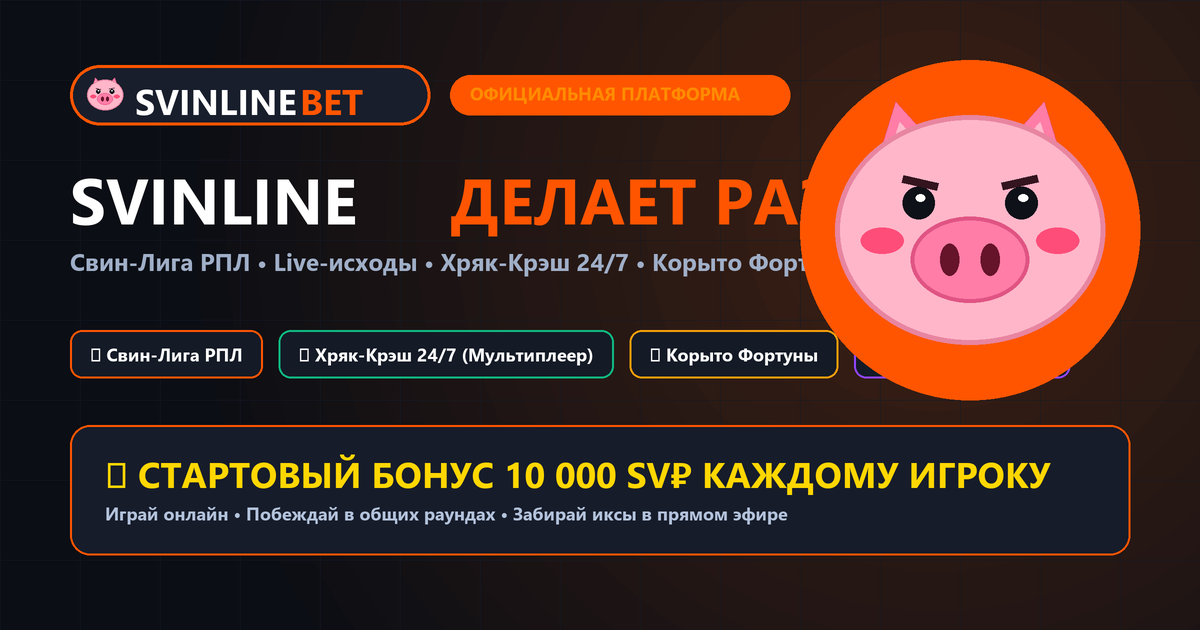
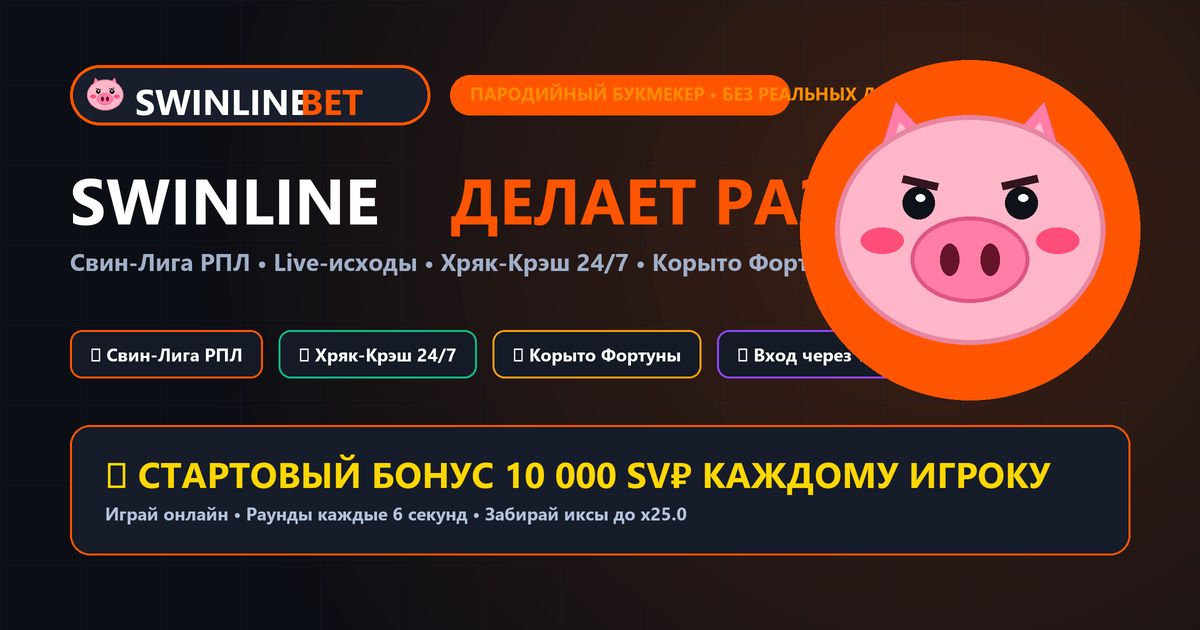
feat(brand): rename SVINLINE -> SWINLINE everywhere user-facing
- UI texts, logo, wheel hub, esports arena, admin panel, auth modal, footer
- meta/OG/Twitter titles + descriptions in index.html
- content: categories, promos, news, about (data.ts) and docs (README, info.md)
- regenerated og-image and favicons via generate_assets.py; og banner now says
  'ПАРОДИЙНЫЙ БУКМЕКЕР • БЕЗ РЕАЛЬНЫХ ДЕНЕГ' instead of 'ОФИЦИАЛЬНАЯ ПЛАТФОРМА'
  and drops the fake '(Мультиплеер)' badge
- repo name, site URL, localStorage keys and SV₽ currency intentionally unchanged

diff --git a/src/App.tsx b/src/App.tsx
@@ -85,7 +85,7 @@ function loadJSON<T>(key: string, fallback: T): T {
 const fmt = (n: number) => n.toLocaleString('ru-RU', { maximumFractionDigits: 2 }) + ' SV₽'
 
 const PigLogo = () => (
-  <svg width="28" height="28" viewBox="0 0 100 100" role="img" aria-label="Свин-маскот SVINLINE">
+  <svg width="28" height="28" viewBox="0 0 100 100" role="img" aria-label="Свин-маскот SWINLINE">
     <use href="#pig" />
   </svg>
 )
@@ -1102,7 +1102,7 @@ export default function App() {
       setNewMatchIsLive(true)
       setNewMatchScore('1 : 0')
       setNewMatchTime('Финал 30 сек')
-      setNewMatchDesc('Прямой эфир со столовой SVINLINE!')
+      setNewMatchDesc('Прямой эфир со столовой SWINLINE!')
     }
     notify('Шаблон применён! Можете отредактировать параметры или сразу опубликовать 🚀')
   }
@@ -1128,7 +1128,7 @@ export default function App() {
       score: newMatchScore.trim() || '0 : 0',
       isLive: newMatchIsLive,
       liveTime: newMatchIsLive ? (newMatchTime.trim() || '1-й тайм 1\'') : (newMatchTime.trim() || 'Скоро'),
-      desc: newMatchDesc.trim() || 'Матч добавлен администратором SVINLINE.',
+      desc: newMatchDesc.trim() || 'Матч добавлен администратором SWINLINE.',
       out: [
         ['П1', o1],
         ['Ничья X', ox],
@@ -1414,7 +1414,7 @@ export default function App() {
 
   return (
     <div style={{ minHeight: '100vh', display: 'flex', flexDirection: 'column' }}>
-      {/* 1. Header (Winline style with SVINLINE branding) */}
+      {/* 1. Header (Winline style with SWINLINE branding) */}
       <header className="wl-header">
         <div className="wl-header-inner">
           <div style={{ display: 'flex', alignItems: 'center', gap: 18 }}>
@@ -1422,7 +1422,7 @@ export default function App() {
             <div className="wl-logo-pill" onClick={() => { setView('line'); setSelectedSport(null) }}>
               <PigLogo />
               <div className="wl-logo-text">
-                SVIN<span>LINE</span>
+                SWIN<span>LINE</span>
               </div>
             </div>
 
@@ -2514,7 +2514,7 @@ export default function App() {
                     {/* Central Mascot Hub */}
                     <div className="wl-wheel-center-hub" onClick={!spinning ? spinRoulette : undefined} title="Крутить корыто">
                       <PigLogo />
-                      <span style={{ fontSize: 9, fontWeight: 800, color: '#f59e0b', marginTop: 2, letterSpacing: 0.5 }}>SVIN</span>
+                      <span style={{ fontSize: 9, fontWeight: 800, color: '#f59e0b', marginTop: 2, letterSpacing: 0.5 }}>SWIN</span>
                     </div>
                   </div>
 
@@ -2588,7 +2588,7 @@ export default function App() {
                       🐷🎮
                     </div>
                     <div style={{ fontFamily: 'var(--font-d)', fontWeight: 800, fontSize: 22, marginTop: 12 }}>
-                      SVIN-ESPORTS ARENA
+                      SWIN-ESPORTS ARENA
                     </div>
                     <div style={{ color: 'var(--tx-secondary)', fontSize: 13, marginTop: 4 }}>
                       {streamPlaying ? 'Прямой эфир турнира CS2 • Идёт разминка' : 'Трансляция на паузе'}
@@ -2846,7 +2846,7 @@ export default function App() {
           {view === 'about' && (
             <div style={{ maxWidth: 860, margin: '0 auto' }}>
               <h2 style={{ fontFamily: 'var(--font-d)', fontSize: 22, marginBottom: 16 }}>
-                О компании SVINLINE
+                О компании SWINLINE
               </h2>
 
               {/* CEO Showcase Card */}
@@ -2866,7 +2866,7 @@ export default function App() {
               >
                 <img
                   src={ceoPhoto}
-                  alt="Генеральный директор SVINLINE"
+                  alt="Генеральный директор SWINLINE"
                   style={{
                     width: 120,
                     height: 150,
@@ -2882,10 +2882,10 @@ export default function App() {
                     <ShieldCheck size={14} /> Руководство компании
                   </div>
                   <h3 style={{ fontSize: 22, fontWeight: 800, color: '#fff', marginBottom: 6, fontFamily: 'var(--font-d)' }}>
-                    Генеральный директор SVINLINE
+                    Генеральный директор SWINLINE
                   </h3>
                   <div style={{ fontSize: 14, color: 'var(--tx-secondary)', lineHeight: 1.6 }}>
-                    Основатель и генеральный директор букмекерской платформы SVINLINE. Лично курирует честность выплат, надёжность алгоритмов линии, организацию турниров и стратегическое развитие платформы нового поколения.
+                    Основатель и генеральный директор букмекерской платформы SWINLINE. Лично курирует честность выплат, надёжность алгоритмов линии, организацию турниров и стратегическое развитие платформы нового поколения.
                   </div>
                 </div>
               </div>
@@ -2904,7 +2904,7 @@ export default function App() {
               <div className="wl-banner-card highlight">
                 <h3 style={{ fontSize: 17, fontWeight: 700, marginBottom: 8 }}>Правила платформы</h3>
                 <p style={{ fontSize: 13, color: 'var(--tx-secondary)', lineHeight: 1.6 }}>
-                  SVINLINE — интерактивная игровая платформа. Внутренняя расчетная единица: SV₽. Стартовый баланс: {fmt(START)}, минимальная ставка: {MINBET} SV₽. Все игровые расчеты производятся в единицах SV₽.
+                  SWINLINE — интерактивная игровая платформа. Внутренняя расчетная единица: SV₽. Стартовый баланс: {fmt(START)}, минимальная ставка: {MINBET} SV₽. Все игровые расчеты производятся в единицах SV₽.
                 </p>
               </div>
             </div>
@@ -3243,7 +3243,7 @@ export default function App() {
               <div style={{ display: 'flex', alignItems: 'center', gap: 10 }}>
                 <ShieldCheck size={22} color="#f59e0b" />
                 <span style={{ fontWeight: 800, fontSize: 17, color: '#f59e0b' }}>
-                  ПАНЕЛЬ АДМИНИСТРАТОРА ЛИНИИ SVINLINE
+                  ПАНЕЛЬ АДМИНИСТРАТОРА ЛИНИИ SWINLINE
                 </span>
               </div>
               <button onClick={() => setAdminModalOpen(false)} style={{ color: 'var(--tx-muted)' }}>
@@ -3552,7 +3552,7 @@ export default function App() {
                     className="wl-btn-orange"
                     style={{ width: '100%', height: 46, fontSize: 15, borderRadius: 10, marginTop: 10 }}
                   >
-                    + Опубликовать событие в линию SVINLINE 🚀
+                    + Опубликовать событие в линию SWINLINE 🚀
                   </button>
                 </form>
               )}
@@ -3723,7 +3723,7 @@ export default function App() {
           <div className="wl-modal-card" style={{ maxWidth: 420, textAlign: 'center', padding: '24px 20px' }} onClick={e => e.stopPropagation()}>
             <div style={{ display: 'flex', justifyContent: 'space-between', alignItems: 'center', marginBottom: 16 }}>
               <span style={{ fontWeight: 800, fontSize: 18, color: '#fff' }}>
-                Вход в SVINLINE
+                Вход в SWINLINE
               </span>
               <button onClick={() => setAuthModalOpen(false)} style={{ color: 'var(--tx-muted)', background: 'none', border: 'none', cursor: 'pointer' }}>
                 <X size={20} />
@@ -4172,7 +4172,7 @@ export default function App() {
                   className="wl-btn-orange"
                   style={{ width: '100%', height: 46, fontSize: 15, borderRadius: 10, marginTop: 8 }}
                 >
-                  + Опубликовать событие в линию SVINLINE 🚀
+                  + Опубликовать событие в линию SWINLINE 🚀
                 </button>
               </form>
             </div>
@@ -4191,7 +4191,7 @@ export default function App() {
       {/* 8. Discreet Footer */}
       <footer className="wl-footer">
         <div>
-          © 2026 SVINLINE (СВИНЛАЙН). Все права защищены. Играйте ответственно. Внутренняя расчетная единица: SV₽. 18+
+          © 2026 SWINLINE (СВИНЛАЙН). Все права защищены. Играйте ответственно. Внутренняя расчетная единица: SV₽. 18+
         </div>
       </footer>
     </div>

diff --git a/src/data.ts b/src/data.ts
@@ -50,7 +50,7 @@ export const DEFAULT_ACCOUNTS: UserAccount[] = []
 export const CATS = [
   'Свинские соревнования',
   'Интернет и мемы',
-  'Жизнь SVINLINE',
+  'Жизнь SWINLINE',
   'Абсолютный абсурд',
   'Кибер-Хряк (Esports)',
   'Скоростное поедание',
@@ -63,7 +63,7 @@ export const SPORT_CATEGORIES = [
   { id: 5, name: 'Скоростное поедание', count: 0, icon: 'Utensils' },
   { id: 4, name: 'Кибер-Хряк (CS & Dota)', count: 0, icon: 'Gamepad2' },
   { id: 1, name: 'Интернет и мемы', count: 0, icon: 'Flame' },
-  { id: 2, name: 'Жизнь SVINLINE', count: 0, icon: 'Building' },
+  { id: 2, name: 'Жизнь SWINLINE', count: 0, icon: 'Building' },
   { id: 3, name: 'Абсолютный абсурд', count: 0, icon: 'Sparkles' },
   { id: 6, name: 'Хрюк-MMA', count: 0, icon: 'Swords' },
   { id: 7, name: 'Свинобол 24/7', count: 0, icon: 'Activity' }
@@ -84,7 +84,7 @@ export const TOURNAMENT_PILLS = [
 export const PROMOS = [
   [
     'СТАРТОВЫЙ БОНУС 10 000 SV₽',
-    'Эксклюзивный приветственный бонус SVINLINE. Моментально начисляется на баланс каждому новому участнику при регистрации.'
+    'Эксклюзивный приветственный бонус SWINLINE. Моментально начисляется на баланс каждому новому участнику при регистрации.'
   ],
   [
     'ХРЯК-КРЭШ 24/7',
@@ -106,7 +106,7 @@ export const NEWS = [
     'Совет директоров единогласно утвердил стратегию развития бренда и новые стандарты заботы о клиентах.'
   ],
   [
-    'SVINLINE открыла тренировочную базу для киберспорта',
+    'SWINLINE открыла тренировочную базу для киберспорта',
     'Игроки тренируются по 14 часов в день, готовясь к осеннему сезону ThunderPig World Championship.'
   ],
   [
@@ -117,11 +117,11 @@ export const NEWS = [
 
 export const ABOUT = [
   'История создания',
-  'SVINLINE — передовая цифровая платформа спортивных и киберспортивных событий. Мы создали премиальный сервис с высокими коэффициентами, глубокой аналитикой и уникальной линейкой турниров.',
+  'SWINLINE — передовая цифровая платформа спортивных и киберспортивных событий. Мы создали премиальный сервис с высокими коэффициентами, глубокой аналитикой и уникальной линейкой турниров.',
   'Наша философия',
   '100% эмоций, передовые технологии и бескомпромиссный спортивный драйв. Платформа нового поколения с мгновенным расчетом ставок в валюте SV₽.',
   'Руководство компании',
-  'Генеральный директор SVINLINE лично курирует стандарты надежности платформы, расчет линии и развитие турниров.'
+  'Генеральный директор SWINLINE лично курирует стандарты надежности платформы, расчет линии и развитие турниров.'
 ]
 
 export const START = 10000

diff --git a/index.html b/index.html
@@ -3,8 +3,8 @@
 <head>
 <meta charset="utf-8">
 <meta name="viewport" content="width=device-width, initial-scale=1, viewport-fit=cover">
-<title>SVINLINE: делает разницу</title>
-<meta name="description" content="SVINLINE — пародийный букмекер на виртуальные SV₽: Свин-Лига РПЛ, Хряк-Крэш, Корыто Фортуны и Плинко. Реальных денег нет.">
+<title>SWINLINE: делает разницу</title>
+<meta name="description" content="SWINLINE — пародийный букмекер на виртуальные SV₽: Свин-Лига РПЛ, Хряк-Крэш, Корыто Фортуны и Плинко. Реальных денег нет.">
 
 <!-- Favicons & App Icons -->
 <link rel="icon" type="image/svg+xml" href="./favicon.svg">
@@ -14,8 +14,8 @@
 
 <!-- Open Graph / Telegram / Discord / VK / WhatsApp Preview -->
 <meta property="og:type" content="website">
-<meta property="og:site_name" content="SVINLINE">
-<meta property="og:title" content="SVINLINE: делает разницу 🐷">
+<meta property="og:site_name" content="SWINLINE">
+<meta property="og:title" content="SWINLINE: делает разницу 🐷">
 <meta property="og:description" content="Пародийный букмекер на виртуальные SV₽: Свин-Лига РПЛ, Хряк-Крэш 24/7 и Корыто Фортуны. Заходи и забирай стартовые 10 000 SV₽! Реальных денег нет.">
 <meta property="og:url" content="https://egor4kill.github.io/svinline/">
 <meta property="og:image" content="https://egor4kill.github.io/svinline/og-image.png">
@@ -23,11 +23,11 @@
 <meta property="og:image:type" content="image/png">
 <meta property="og:image:width" content="1200">
 <meta property="og:image:height" content="630">
-<meta property="og:image:alt" content="SVINLINE: делает разницу">
+<meta property="og:image:alt" content="SWINLINE: делает разницу">
 
 <!-- Twitter / X Card -->
 <meta name="twitter:card" content="summary_large_image">
-<meta name="twitter:title" content="SVINLINE: делает разницу 🐷">
+<meta name="twitter:title" content="SWINLINE: делает разницу 🐷">
 <meta name="twitter:description" content="Пародийный букмекер на виртуальные SV₽: Свин-Лига РПЛ, Хряк-Крэш 24/7 и Корыто Фортуны. Заходи и забирай стартовые 10 000 SV₽! Реальных денег нет.">
 <meta name="twitter:image" content="https://egor4kill.github.io/svinline/og-image.png">
 

diff --git a/src/index.css b/src/index.css
@@ -91,7 +91,7 @@ button:focus-visible, input:focus-visible {
   gap: 16px;
 }
 
-/* Winline-styled SVINLINE Logo Pill */
+/* Winline-styled SWINLINE Logo Pill */
 .wl-logo-pill {
   display: flex;
   align-items: center;

diff --git a/scripts/generate_assets.py b/scripts/generate_assets.py
@@ -114,16 +114,16 @@ def create_og_banner():
     pill_y = 65 * scale
     draw.rounded_rectangle([pill_x, pill_y, pill_x + 360 * scale, pill_y + 60 * scale], radius=30 * scale, fill=(24, 30, 44), outline=(255, 85, 0), width=3 * scale)
     draw_pig(draw, pill_x + 35 * scale, pill_y + 30 * scale, 18 * scale)
-    draw.text((pill_x + 65 * scale, pill_y + 11 * scale), "SVINLINE", fill=(255, 255, 255), font=font_large)
+    draw.text((pill_x + 65 * scale, pill_y + 11 * scale), "SWINLINE", fill=(255, 255, 255), font=font_large)
     draw.text((pill_x + 230 * scale, pill_y + 11 * scale), "BET", fill=(255, 85, 0), font=font_large)
 
     # Tag next to pill
     draw.rounded_rectangle([pill_x + 380 * scale, pill_y + 10 * scale, pill_x + 720 * scale, pill_y + 50 * scale], radius=20 * scale, fill=(255, 85, 0, 40), outline=(255, 85, 0))
-    draw.text((pill_x + 400 * scale, pill_y + 16 * scale), "ОФИЦИАЛЬНАЯ ПЛАТФОРМА", fill=(255, 140, 0), font=font_small)
+    draw.text((pill_x + 400 * scale, pill_y + 16 * scale), "ПАРОДИЙНЫЙ БУКМЕКЕР • БЕЗ РЕАЛЬНЫХ ДЕНЕГ", fill=(255, 140, 0), font=font_small)
 
     # Hero Title
     title_y = 155 * scale
-    draw.text((70 * scale, title_y), "SVINLINE", fill=(255, 255, 255), font=font_huge)
+    draw.text((70 * scale, title_y), "SWINLINE", fill=(255, 255, 255), font=font_huge)
     draw.text((70 * scale + 380 * scale, title_y), "ДЕЛАЕТ РАЗНИЦУ", fill=(255, 85, 0), font=font_huge)
 
     # Subtitle
@@ -133,7 +133,7 @@ def create_og_banner():
     # Feature Badges
     badges = [
         ("🔥 Свин-Лига РПЛ", (255, 85, 0)),
-        ("🚀 Хряк-Крэш 24/7 (Мультиплеер)", (16, 185, 129)),
+        ("🚀 Хряк-Крэш 24/7", (16, 185, 129)),
         ("🎡 Корыто Фортуны", (245, 158, 11)),
         ("🟣 Вход через Twitch", (145, 70, 255))
     ]
@@ -151,7 +151,7 @@ def create_og_banner():
     bonus_y = 425 * scale
     draw.rounded_rectangle([70 * scale, bonus_y, sw - 70 * scale, bonus_y + 130 * scale], radius=20 * scale, fill=(22, 28, 42), outline=(255, 85, 0), width=2 * scale)
     draw.text((105 * scale, bonus_y + 24 * scale), "🎁 СТАРТОВЫЙ БОНУС 10 000 SV₽ КАЖДОМУ ИГРОКУ", fill=(255, 215, 0), font=font_large)
-    draw.text((105 * scale, bonus_y + 76 * scale), "Играй онлайн • Побеждай в общих раундах • Забирай иксы в прямом эфире", fill=(180, 195, 220), font=font_small)
+    draw.text((105 * scale, bonus_y + 76 * scale), "Играй онлайн • Раунды каждые 6 секунд • Забирай иксы до x25.0", fill=(180, 195, 220), font=font_small)
 
     # Big Giant Mascot on right side
     mascot_x = sw - 230 * scale

diff --git a/info.md b/info.md
@@ -1,9 +1,9 @@
-SVINLINE
+SWINLINE
 ТЕХНИЧЕСКОЕ ЗАДАНИЕ
 Сатирическая виртуальная букмекерская платформа • версия 0.1 • 18 октября 2026 г.
 1. Краткое описание проекта
-SVINLINE — вымышленная букмекерская компания-пародия с визуально реалистичным, премиальным интерфейсом. Сайт имитирует структуру букмекерского сервиса, но все события, коэффициенты, ставки, балансы и выигрыши являются виртуальными и предназначены только для развлечения. Реальные деньги не принимаются и не выводятся.
-Рабочий слоган: «SVINLINE — делает разницу». Главный визуальный персонаж — фирменный розовый свин-маскот.
+SWINLINE — вымышленная букмекерская компания-пародия с визуально реалистичным, премиальным интерфейсом. Сайт имитирует структуру букмекерского сервиса, но все события, коэффициенты, ставки, балансы и выигрыши являются виртуальными и предназначены только для развлечения. Реальные деньги не принимаются и не выводятся.
+Рабочий слоган: «SWINLINE — делает разницу». Главный визуальный персонаж — фирменный розовый свин-маскот.
 2. Цели первой версии
 •	Создать узнаваемый бренд и реалистично выглядящий сайт-пародию.
 •	Использовать сайт как источник рекламных баннеров для стримов, TikTok и других соцсетей.
@@ -16,7 +16,7 @@ SVINLINE — вымышленная букмекерская компания-п
 •	Никаких ссылок на настоящих букмекеров, реферальных ссылок или призывов внести реальные деньги.
 •	Не выдавать вымышленные результаты и коэффициенты за реальные спортивные данные.
 •	Видимая пометка на сайте: «Пародийный проект. Все ставки и средства виртуальные. Реальных денег нет».
-•	Не копировать логотипы, тексты и фирменные элементы других компаний; использовать собственный бренд SVINLINE.
+•	Не копировать логотипы, тексты и фирменные элементы других компаний; использовать собственный бренд SWINLINE.
 •	Юмор должен быть сатирическим, но не унижать конкретных людей и не создавать впечатление реального финансового сервиса.
 4. Визуальная концепция
 •	Общее направление: премиальный sportsbook / esports-интерфейс с сатирическим содержанием.
@@ -28,9 +28,9 @@ SVINLINE — вымышленная букмекерская компания-п
 •	Адаптивность обязательна: мобильная версия для переходов из TikTok и десктопная версия для стримов.
 5. Структура сайта
 Главная
-Главный баннер SVINLINE; короткое описание пародийного проекта; избранные виртуальные события; акции; новости компании; кнопки перехода к событиям и информации о проекте.
+Главный баннер SWINLINE; короткое описание пародийного проекта; избранные виртуальные события; акции; новости компании; кнопки перехода к событиям и информации о проекте.
 Виртуальные события
-Каталог вымышленных событий с категориями, карточками, исходами и коэффициентами. Категории: «Свинские соревнования», «Интернет и мемы», «Жизнь SVINLINE», «Абсолютный абсурд».
+Каталог вымышленных событий с категориями, карточками, исходами и коэффициентами. Категории: «Свинские соревнования», «Интернет и мемы», «Жизнь SWINLINE», «Абсолютный абсурд».
 Карточка события
 Название, краткое описание, список исходов, коэффициенты, статус события и демонстрационная форма виртуальной ставки.
 Купон ставок
@@ -61,7 +61,7 @@ SVINLINE — вымышленная букмекерская компания-п
 7. Примеры контента
 Виртуальное событие	Демо-исходы и коэффициенты
 Свинья доест бургер за 30 секунд?	Да — 2.00; Нет — 1.75
-Руководство SVINLINE признает ошибку?	Признает — 99.00; Создаст комиссию — 1.01
+Руководство SWINLINE признает ошибку?	Признает — 99.00; Создаст комиссию — 1.01
 Какой мем первым наберёт миллион просмотров?	Мем A — 2.40; Мем B — 3.10; Свинья — 1.50
 Будет ли сегодня всё по плану?	Да — 50.00; Нет — 1.01
 8. Рекламные баннеры и соцсети

diff --git a/README.md b/README.md
@@ -1,4 +1,4 @@
-# SVINLINE
+# SWINLINE
 
 Пародийный букмекер на виртуальные SV₽. React + TypeScript + Vite + Supabase
 (Auth через Twitch/GitHub, таблицы profiles / bets / events, Realtime).
